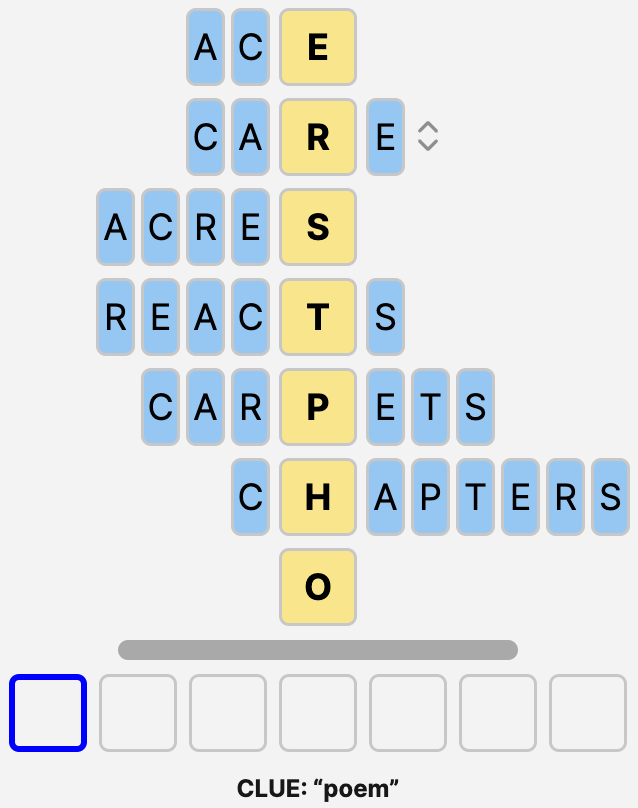
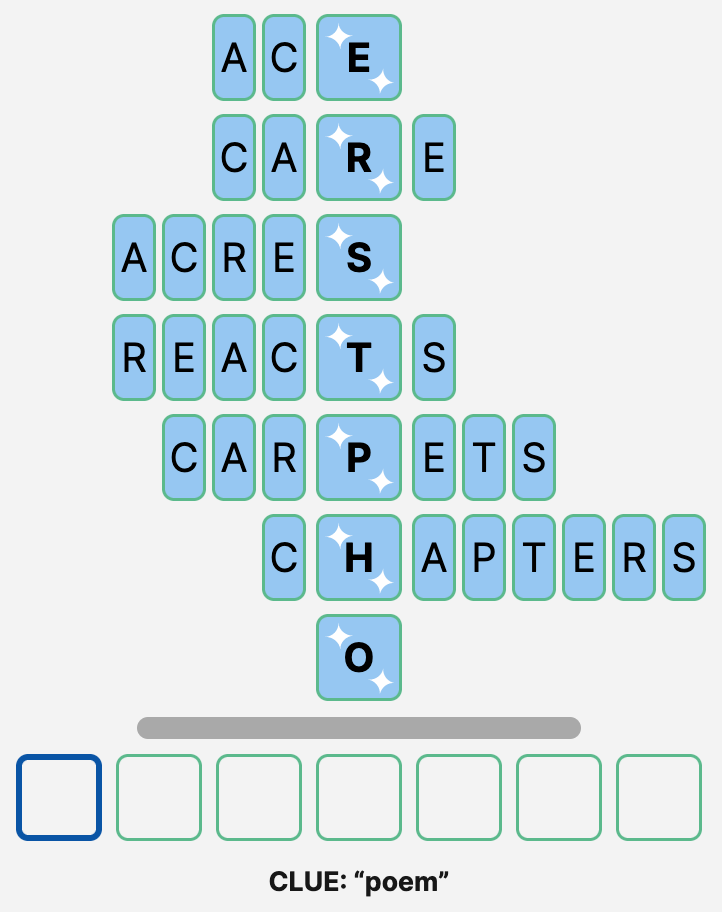
Sort keyboard by plus-one, fix keyboard hints, update directions, add shimmer to plus-one squares/keys

Changed region(s): [[0.0, 0.0, 1.0, 0.9901]]

diff --git a/subsets/packages/app/features/keyboard.tsx b/subsets/packages/app/features/keyboard.tsx
@@ -20,6 +20,7 @@ export interface KeyboardHandles {
 }
 
 const backspace = '\u232B'
+const buttonHeight = 55
 
 const Keyboard = forwardRef<KeyboardHandles, KeyboardProps>(({ layout, refWord, onKeyPress }, ref) => {
   const [keyStates, setKeyStates] = useState<{ [keyIdentifier: string]: KeyStatus }>({});
@@ -63,21 +64,44 @@ const Keyboard = forwardRef<KeyboardHandles, KeyboardProps>(({ layout, refWord, 
     }
   };
 
-  const getKeyColor = (keyIdent: string) : Variable | undefined => {
-    const status: KeyStatus = keyStates[keyIdent];
-    if (status === undefined) { return undefined; }
-    if (status.active === false) {
-      return tokens.color.gray9Light;
-    }
-    if (refWord.length === 8 || status.highlighted === false) {
-      return (keyIdent.includes(`_1_`)) ? tokens.color.gray6Light : tokens.color.yellow6Light;
-    }
-    return tokens.color.blue7Light;
-  }
-
   useImperativeHandle(ref, () => ({
     enableKey,
   }));
+
+  const buttonContents = (keyIdentifier: string, letter: string, rowIndex: number, buttonWidth: number) => {
+    const status: KeyStatus = keyStates[keyIdentifier];
+    if (keyStates[keyIdentifier].active || !keyIdentifier.startsWith("keyENTER")) {
+      return (
+        <>
+          { !status.highlighted && rowIndex === 0 && status.active &&
+            <LottieView
+              source={require("../assets/shimmer.json")}
+              autoPlay
+              width={buttonWidth}
+              height={buttonHeight}
+              loop
+              speed={1.0 + 0.5 * (Math.random() - 0.5)}
+              position='absolute'
+              top={0}
+              left={0}
+            />
+          }
+          <Text color='black' style={{ fontSize: letter === 'ENTER' ? 12 : 16 }} position='absolute'>
+            {letter}
+          </Text>
+        </>
+      )
+    }
+    return (
+      <Stack marginTop={3} alignSelf='center'>
+        <LottieView
+          source={require("../assets/loading_dots.json")}
+          autoPlay
+          loop
+        />
+      </Stack>
+    )
+  };
 
   return (
     <YStack alignItems="center" gap={5} style={{ marginTop: 8 }}>
@@ -86,13 +110,15 @@ const Keyboard = forwardRef<KeyboardHandles, KeyboardProps>(({ layout, refWord, 
           {row.map((letter, columnIndex) => {
             const keyIdentifier = `key${letter}_${rowIndex}_${columnIndex}`;
             if (!(keyIdentifier in keyStates)) { return; }
+            const status = keyStates[keyIdentifier];
+            const buttonWidth = rowIndex == 1 ? 75 : 40
             return (
               <Button
                 key={keyIdentifier}
                 onPress={() => handleKeyPress(keyIdentifier, letter)}
                 style={{
-                  width: rowIndex == 1 ? 75 : 40,
-                  height: 55,
+                  width: buttonWidth,
+                  height: buttonHeight,
                   padding: 0,
                   marginHorizontal: 0.5,
                   borderRadius: 4,
@@ -100,22 +126,10 @@ const Keyboard = forwardRef<KeyboardHandles, KeyboardProps>(({ layout, refWord, 
                   borderWidth: 1,
                   justifyContent: 'center',
                   alignItems: 'center',
-                  backgroundColor: getKeyColor(keyIdentifier),
+                  backgroundColor: status.active ? "$gray6Light" : "$gray9Light"
                 }}
               >
-                {keyStates[keyIdentifier].active || !keyIdentifier.startsWith("keyENTER") ? (
-                  <Text color='black' style={{ fontSize: letter === 'ENTER' ? 12 : 16 }}>
-                    {letter}
-                  </Text>
-                ) : (
-                  <Stack marginTop={3} alignSelf='center'>
-                    <LottieView
-                      source={require("../assets/loading_dots.json")}
-                      autoPlay
-                      loop
-                    />
-                  </Stack>
-                )}
+                {buttonContents(keyIdentifier, letter, rowIndex, buttonWidth)}
               </Button>
             );
           })}

diff --git a/subsets/packages/app/features/square.tsx b/subsets/packages/app/features/square.tsx
@@ -1,5 +1,7 @@
 import { Stack, Text, createTokens } from 'tamagui'
 import { tokens as baseTokens } from '@tamagui/config/v3'
+import LottieView from 'lottie-react-native';
+import { Variable } from '@my/ui'
 import { ClueType } from '../types/'
 
 const customTokens = createTokens({
@@ -36,10 +38,7 @@ const Square: React.FC<SquareProps> = ({
   const normalWidth = !isAnagramGuess || isAnagramLetter
   const squareWidth = (normalWidth) ? squareHeight : 0.5 * squareHeight
 
-  const getBackgroundColor = () => {
-    if (isHighlighted) {
-      return customTokens.color.yellow6Light
-    }
+  const getBackgroundColor = (): Variable => {
     switch (clueType) {
       case ClueType.AllCorrect:
         return customTokens.color.blue7Light //: customTokens.color.gray8Light
@@ -52,13 +51,24 @@ const Square: React.FC<SquareProps> = ({
     }
   }
 
+  const getBorderColor = (): Variable => {
+    if (isEditable) {
+      return customTokens.color.blue8Dark;
+    }
+    return customTokens.color.gray9Light;
+  }
+
+  const getBorderWidth = () => {
+    return (isEditable) ? 3 : 1.5;
+  }
+
   return (
     <Stack
       width={squareWidth}
       height={squareHeight}
       backgroundColor={getBackgroundColor()}
-      borderColor={isEditable ? 'blue' : "$gray8Light"}
-      borderWidth={ isEditable ? 3 : 1.5 }
+      borderColor={getBorderColor()}
+      borderWidth={getBorderWidth()}
       borderRadius={5}
       marginVertical={squareMargin}
       marginHorizontal={ normalWidth ? squareMargin : squareMargin / 2 }
@@ -68,7 +78,20 @@ const Square: React.FC<SquareProps> = ({
       display="flex"
       onPress={onPress}
     >
-      <Text color={'black'} fontSize={18} fontWeight={normalWidth ? "bold" : "unset"}>
+      { isHighlighted &&
+        <LottieView
+          source={require("../assets/shimmer.json")}
+          autoPlay
+          width={squareWidth}
+          height={squareHeight}
+          loop
+          speed={1.0 + 0.5 * (Math.random() - 0.5)}
+          position='absolute'
+          top={0}
+          left={0}
+        />
+      }
+      <Text position='absolute' zIndex={5} color={'black'} fontSize={18} fontWeight={normalWidth ? "bold" : "unset"}>
         {letter.toUpperCase()}</Text>
     </Stack>
   )

diff --git a/subsets/packages/app/features/drawer.tsx b/subsets/packages/app/features/drawer.tsx
@@ -47,7 +47,7 @@ const Drawer = ({ visible, onClose }) => {
                 </DefaultText>
               </XStack>
               <DefaultText marginTop={8}>
-                For example, if the starting word is "ACE", the solution might look like this:
+                For example, if the starting word is "ACE", the answers might look like this:
               </DefaultText>
               <YStack alignItems="center" width="100%">
                 <Image src="/full_example.png" alt="Full example" width={292} height={218} marginVertical={8}/>
@@ -59,14 +59,14 @@ const Drawer = ({ visible, onClose }) => {
               <XStack backgroundColor="$blue3Light" marginTop={8}>
                 <Stack width={20}><ChevronRight width={15}/></Stack>
                 <DefaultText fontWeight="bold" marginTop={4}>
-                  Each guess must be a valid word of 4 letters or more.
+                  The correct guess will fill all the squares.
+                  But you can use shorter guesses to gather clues.
                 </DefaultText>
               </XStack>
               <XStack backgroundColor="$blue3Light">
                 <Stack width={20}><ChevronRight width={15}/></Stack>
                 <DefaultText fontWeight="bold" marginTop={4}>
-                  The correct guess will fill all the squares.
-                  But you can use shorter guesses to gather clues.
+                  Each guess must be a valid word of 4 letters or more.
                 </DefaultText>
               </XStack>
               <XStack backgroundColor="$blue3Light">

diff --git a/subsets/packages/app/features/summary.tsx b/subsets/packages/app/features/summary.tsx
@@ -9,6 +9,7 @@ const blueSquare = "\ud83d\udfe6";
 const redSquare = "\ud83d\udfe5";
 const whiteSquare = "\u2b1c";
 const blackSquare = "\u2b1b";
+const extraLetterIndex = 6;
 
 
 const DefaultText = styled(Text, {
@@ -44,6 +45,7 @@ export const SummaryDrawer: React.FC<SummaryDrawerProps> = ({
         let share: string[] = [`Subsets in ${status.guesses.length - 1}!`];
         const guesses = [...status.guesses].sort((a, b) => a.key - b.key)
         guesses.forEach((value: Guess, index: number) => {
+            if (value.wordIndex === extraLetterIndex) { return; }
             let row: string = "";
             const indent:number = 3 - Math.ceil(value.wordIndex / 2);
             for (let i:number = 0; i < indent; i++) {

diff --git a/subsets/packages/app/features/index.tsx b/subsets/packages/app/features/index.tsx
@@ -163,7 +163,7 @@ export function GameComponent() {
       });
 
       const goodChars = chars.filter(c => goodTypes.includes(c.clueType)).map(c => c.letter.toUpperCase());
-      if (goodChars.length === wordIndex + 1) {
+      if (goodChars.length === wordIndex + 3) {
         for (let i = firstRow.length - 1; i >= 0; i--) {
           const goodIdx = goodChars.indexOf(firstRow[i]);
           if (goodIdx === -1) {

diff --git a/SubsetsAPI/GameService.cs b/SubsetsAPI/GameService.cs
@@ -86,24 +86,29 @@ public class GameService
         status.State = (maxWordIndex <= AnagramIndex) ? GameState.Unsolved : GameState.Solved;
         string? refWord = null;
 
-        List<char> gameChars = (maxWordIndex == AnagramIndex) ? 
-            gameData.ReferenceWord(AnagramIndex).ToList() :
-            gameData.ReferenceWord(LastPlusOneIndex).ToList(); 
-        gameChars.Sort();
+        int refCharIdx = (maxWordIndex == AnagramIndex) ? AnagramIndex : LastPlusOneIndex;
+        List<char> gameChars = gameData.ReferenceWord(refCharIdx).ToList(); 
+        string prevWord = (maxWordIndex == AnagramIndex) ? "" : gameData.ReferenceWord(maxWordIndex - 1);
+        gameChars.Sort((a, b) =>
+        {
+            bool aInRef = prevWord.Contains(a);
+            bool bInRef = prevWord.Contains(b);
+            if (aInRef && !bInRef) return -1;
+            if (!aInRef && bInRef) return 1;
+            return a.CompareTo(b);
+        });
         status.Characters = gameChars;
 
         if (status.State == GameState.Unsolved)
         {
             refWord = gameData.ReferenceWord(maxWordIndex);
-            int offset = 0;
-            status.NextGuess = GetGuess(++key, "", refWord, maxWordIndex, offset);
+            status.NextGuess = GetGuess(++key, "", refWord, maxWordIndex, 0);
         } else {
             int[] newOrder = gameData.AnagramSortOrder();
             List<Guess> guesses = newOrder.SelectMany(i => status.Guesses.Where(g => g.WordIndex == i)).ToList();
             status.Guesses = guesses;
         }
  
-        // Indent should be relative to the leftmost position of the 3-letter word; see also offset
         status.Indent = 0;
 
         return (status, refWord);
